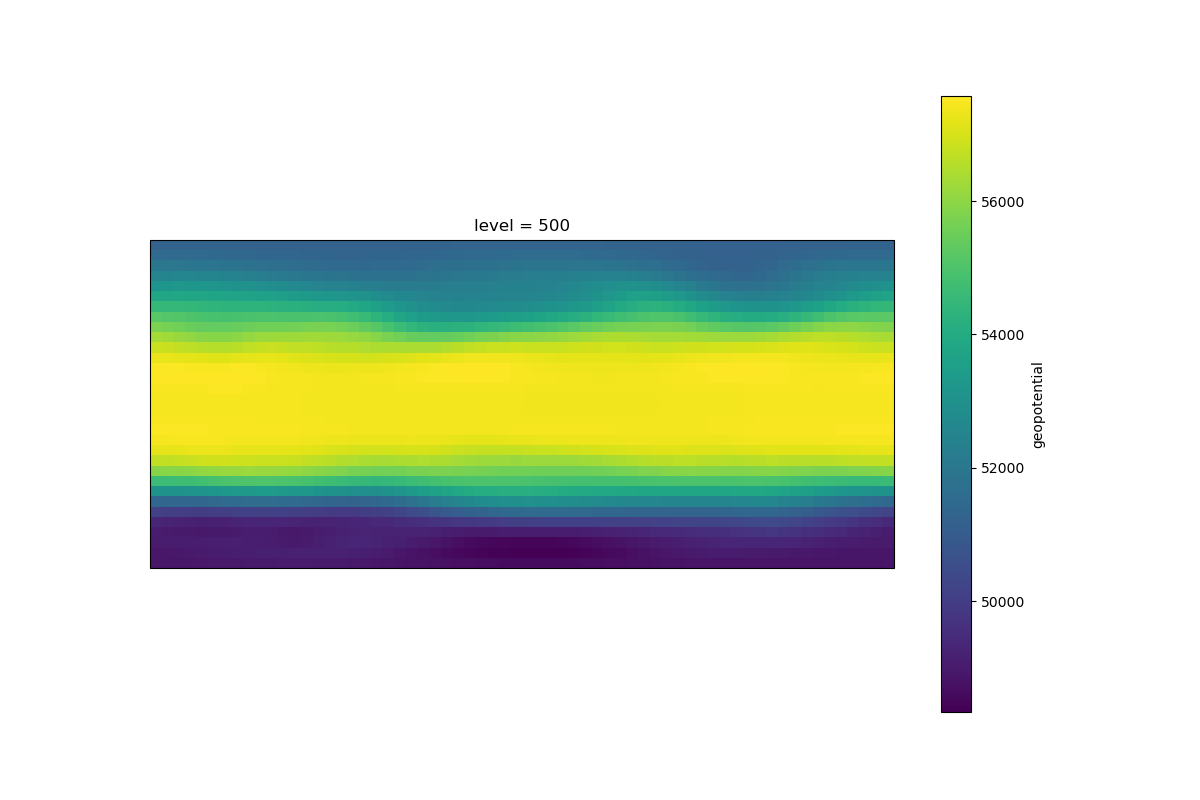
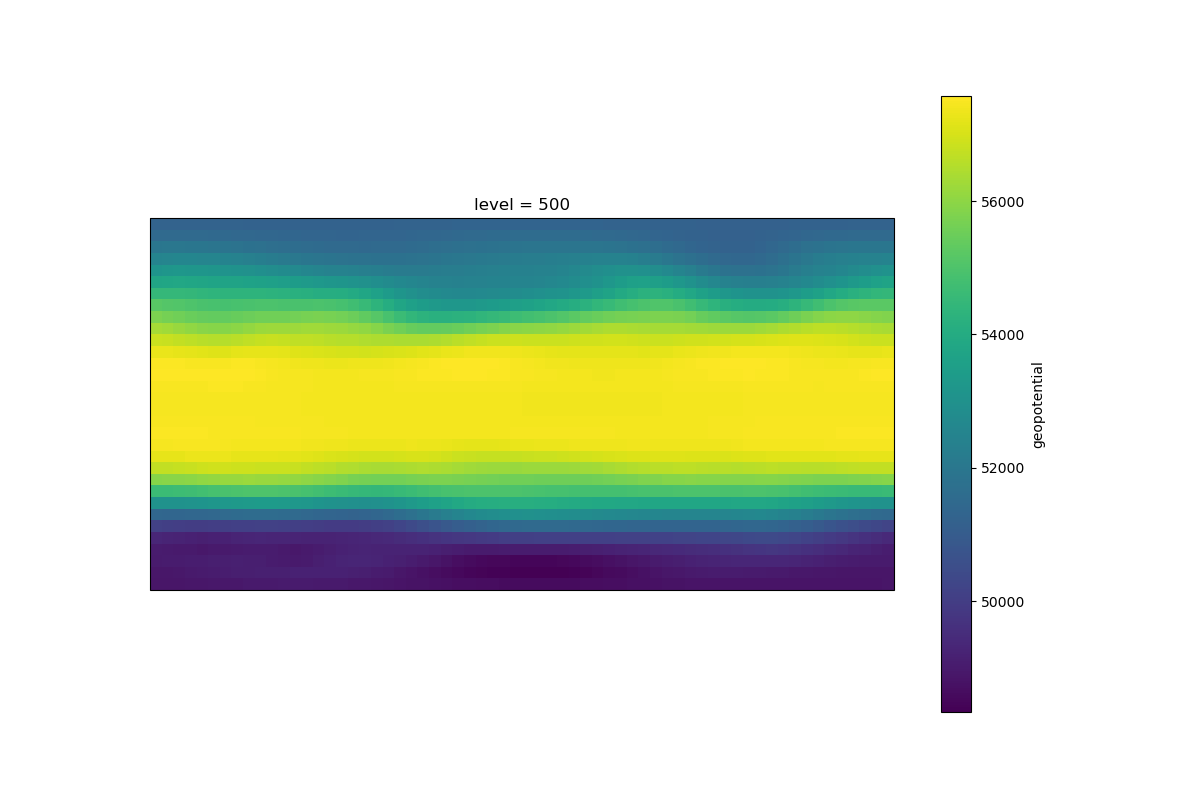
update climatology plot

Changed region(s): [[0.1233, 0.5312, 0.7708, 0.75], [0.1233, 0.25, 0.7708, 0.4688]]

diff --git a/main.py b/main.py
@@ -40,9 +40,10 @@ def get_z500():
 if __name__ == "__main__":
     out = eval(f"{sys.argv[1]}()")
     z500_clim = out.mean(dim="time")
+    print("plot climatology ...")
     import cartopy.crs as ccrs
     import matplotlib.pyplot as plt
-    subplot_kws=dict(projection=ccrs.PlateCarree(),
+    subplot_kws=dict(projection=ccrs.Robinson(),
                  facecolor='grey')
     plt.figure(figsize=[12,8])
     z500_clim.plot(x='longitude', y='latitude',
